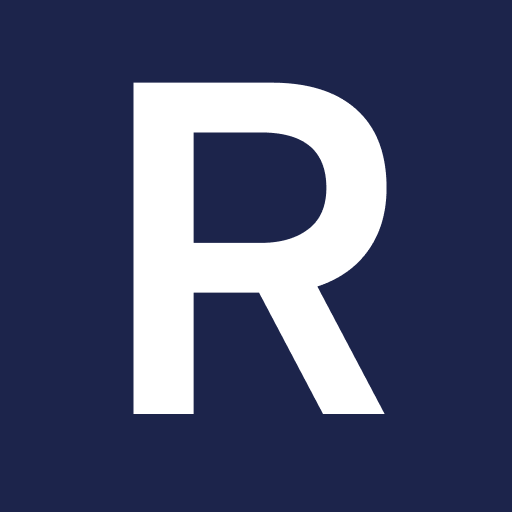
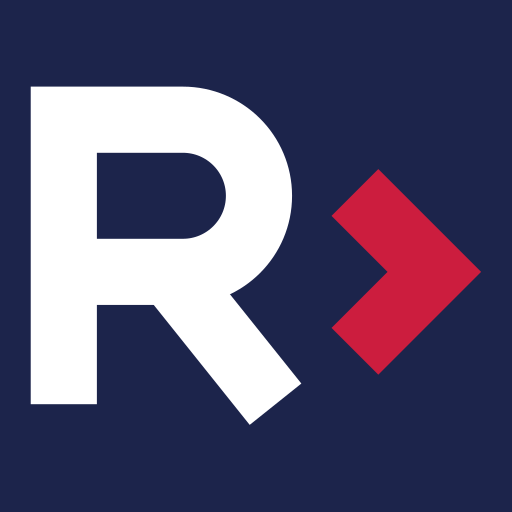
feat(brand): swap in the new Ragen inline logotype
The wordmark keeps its existing outlined paths and its existing palette —
navy #1C244B, red #CC1D3E — and gains the chevron from the new sygnet, set
between the R and the rest of the word: R>agen.ai. The "agen.ai" run is the
original path data shifted right by 116 to open the gap, so the letterforms
are untouched and only the framing grew, 1738 -> 1801 wide.

Ten brand surfaces move together: the app logo in both themes, the docs navbar
in both themes, two favicons and the four Next.js metadata icons. Asset
filenames are unchanged, so nothing referencing them had to move — including
the absolute URL baked into every notification email already delivered.

The exports are path-based and cleanly framed (24 units of padding left, 32
right), so they go in as authored. Two adjustments were still needed:

- The C2PA provenance metadata is stripped: roughly 8KB of base64 wrapped
  around the artwork, most of each file, and meaningless once committed.

- The aspect ratio goes 2.80:1 -> 2.90:1, so the email header's hardcoded
  180x64 becomes 186x64. It is a small change but it has to be made by hand;
  an <Img> with a stale pair squashes the artwork rather than scaling it. The
  <Logo className="h-*"> call sites are height-only and rescale on their own.

favicon.ico and the four app icons are regenerated from the mark alone — white
R and red chevron on the navy field, matching the icons they replace — centred
[…]

diff --git a/apps/web/src/app/components/Logo/__tests__/Logo.test.tsx b/apps/web/src/app/components/Logo/__tests__/Logo.test.tsx
@@ -1,0 +1,111 @@
+import { describe, it, expect, vi, beforeEach } from 'vitest';
+import { render, screen } from '@testing-library/react';
+import userEvent from '@testing-library/user-event';
+
+import { Logo } from '../Logo';
+
+const themeState: { theme?: string; resolvedTheme?: string } = {};
+
+vi.mock('next-themes', () => ({
+  useTheme: () => themeState,
+}));
+
+vi.mock('next/image', () => ({
+  default: ({
+    src,
+    alt,
+    ...props
+  }: {
+    src: string;
+    alt: string;
+    [key: string]: unknown;
+    // eslint-disable-next-line @next/next/no-img-element -- the point of the mock is to drop next/image
+  }) => <img src={src} alt={alt} {...props} />,
+}));
+
+vi.mock('@/i18n/routing', () => ({
+  usePathname: () => '/threads',
+  useRouter: () => ({ refresh: vi.fn() }),
+}));
+
+vi.mock('@/app/lib/utils/logger', () => ({
+  logger: { error: vi.fn(), warn: vi.fn(), info: vi.fn(), debug: vi.fn() },
+}));
+
+const clearVisitorMessagesStats = vi.fn();
+vi.mock('../../../lib/services/api', () => ({
+  clearVisitorMessagesStats: () => clearVisitorMessagesStats(),
+}));
+
+const handleCloseThread = vi.fn();
+vi.mock('@/app/hooks/useCloseThreads', () => ({
+  useCloseThread: () => ({ handleCloseThread }),
+}));
+
+describe('Logo', () => {
+  beforeEach(() => {
+    themeState.theme = 'light';
+    themeState.resolvedTheme = 'light';
+  });
+
+  it('renders the light-background lockup for the light theme', () => {
+    render(<Logo />);
+
+    expect(screen.getByAltText('Logo')).toHaveAttribute(
+      'src',
+      '/assets/ragen-logo-on-light-bg.svg',
+    );
+  });
+
+  it('renders the dark-background lockup for the dark theme', () => {
+    themeState.theme = 'dark';
+    themeState.resolvedTheme = 'dark';
+
+    render(<Logo />);
+
+    expect(screen.getByAltText('Logo')).toHaveAttribute(
+      'src',
+      '/assets/ragen-logo-on-dark-bg.svg',
+    );
+  });
+
+  it('follows the system theme when no theme is set explicitly', () => {
+    themeState.theme = 'system';
+    themeState.resolvedTheme = 'dark';
+
+    render(<Logo />);
+
+    expect(screen.getByAltText('Logo')).toHaveAttribute(
+      'src',
+      '/assets/ragen-logo-on-dark-bg.svg',
+    );
+  });
+
+  it('exposes the brand name to screen readers', () => {
+    render(<Logo />);
+
+    expect(screen.getByText('Ragen AI')).toBeInTheDocument();
+  });
+
+  it('closes the open thread when the logo is clicked', async () => {
+    render(<Logo />);
+
+    await userEvent.click(screen.getByAltText('Logo'));
+
+    expect(handleCloseThread).toHaveBeenCalledWith(true);
+  });
+
+  it('does not close the thread when the link is disabled', async () => {
+    render(<Logo disableLink />);
+
+    await userEvent.click(screen.getByAltText('Logo'));
+
+    expect(handleCloseThread).not.toHaveBeenCalled();
+  });
+
+  it('keeps the caller-supplied sizing class', () => {
+    render(<Logo className="h-12" />);
+
+    expect(screen.getByAltText('Logo')).toHaveClass('h-12');
+  });
+});

diff --git a/apps/web/src/app/emails/components/email-layout.tsx b/apps/web/src/app/emails/components/email-layout.tsx
@@ -27,7 +27,7 @@ export const EmailLayout = ({ preview, children }: Props) => (
       <Body className="bg-[#f6f9fc] font-sans">
         <Container className="mx-auto mb-16 bg-white py-5 pb-12">
           <Section className="px-12">
-            <Img src={LOGO_URL} width={180} height={64} alt="Ragen AI" />
+            <Img src={LOGO_URL} width={186} height={64} alt="Ragen AI" />
             <Hr className="my-5 border-[#e6ebf1]" />
             {children}
             <Hr className="my-5 border-[#e6ebf1]" />

diff --git a/docs/lessons/an-svg-logo-with-live-text-is-not-a-logo-asset.md b/docs/lessons/an-svg-logo-with-live-text-is-not-a-logo-asset.md
@@ -1,0 +1,24 @@
+---
+title: "An SVG logo that keeps its wordmark as live <text> renders in a different font for every viewer — and its viewBox is sized against the fallback"
+modules: ['web', 'docs']
+areas: ['frontend', 'assets']
+topics: ['svg', 'branding', 'webfonts', 'next-image', 'design-handoff']
+---
+
+# An SVG logo that keeps its wordmark as live `<text>` renders in a different font for every viewer — and its viewBox is sized against the fallback
+
+> Caught during a brand handoff and fixed before merge. That particular export was
+> later superseded by a path-based one, so no file in the tree shows the problem —
+> the rule is here because the next handoff can arrive the same way.
+
+**Context**: a brand refresh arrives as a folder of SVG exports — a mark, a lockup, light and dark variants. They open correctly in a browser and in a design tool, so they look ready to drop into `apps/web/public/assets/`. One such lockup drew its wordmark as `<text font-family="Barlow Condensed, Barlow, sans-serif" font-weight="600" font-size="54">`.
+
+**Problem**: an SVG referenced through `<img src>` — which is what `next/image` and the Docusaurus navbar logo both produce — is rendered as an *isolated document*. It cannot reach the host page's CSS, its `@font-face` rules, or any webfont the app loads. It resolves `font-family` only against fonts installed on the viewer's machine. Barlow Condensed is not a system font anywhere, so every viewer would have got some other face, at some other width, and the logo's proportions would have changed per machine. Rendered at the same height, the un-outlined export came out 540px wide against an outlined version's 422px — a 28% difference driven purely by which fonts the viewer happens to have.
+
+The second half is subtler and easy to ship without noticing. That export's `viewBox` was `0 0 360 64`, but with the *intended* font the artwork's ink ended at x=270. The 360 had been measured against the fallback the design machine actually rendered (plain Barlow, ending at x=333) — so the file carried 90 units of dead space on the right against 11 on the left. A logo sized by height in a flex header then sits visibly left of where it should, with a gap nobody can find in the CSS, because the gap is inside the asset.
+
+A related trap in the same files: the exports carried ~8KB of base64 C2PA provenance metadata around ~500 bytes of artwork — 94% of each file — which is meaningless once the asset is committed and served.
+
+**Rule**: a logo shipped as a static asset must not depend on a font. Check every incoming SVG for `<text>` before anything else (`grep -c '<text\|font-family' *.svg`); if it has one, outline it to paths before committing (`fontTools` + `uharfbuzz`: shape the string with kerning on, then draw each glyph through a `TransformPen` scaled by `fontSize / unitsPerEm` with y negated). Then check the framing against the *outlined* ink rather than trusting the exported `viewBox`, and measure that ink by rasterizing and reading the alpha bbox rather than deriving it from the path data — a `stroke-linejoin="miter"` tip reaches well past the coordinates in the `d` attribute (x=79.1 where `72 + stroke-width/2` predicted 77, which clipped the icon until it was measured). Strip C2PA metadata while you are there. Finally, treat a logo's aspect ratio as a layout input: it silently rescales every `<Logo className="h-*">` site, and breaks any hardcoded `width`/`height` pair, such as the one in the email header.
+
+**Applies to**: any brand or icon asset added under `apps/web/public/assets/`, `apps/docs/static/img/`, or the Next.js metadata icons in `apps/web/src/app/`; and any design handoff of SVGs that contain a `<text>` element.

diff --git a/docs/lessons.md b/docs/lessons.md
@@ -53,6 +53,10 @@ After a nontrivial correction or a non-obvious gotcha (see `AGENTS.md`'s "Post-T
 - [AWS_ACCESS_KEY_ID/AWS_SECRET_ACCESS_KEY in local .env.local are Scaleway S3 credentials, not AWS Bedrock ones](lessons/aws-prefixed-env-vars-are-scaleway-s3-not-bedrock.md) — area:integration; module:web,worker,infra; topic:env-vars,aws,scaleway,bedrock,litellm,reranker,storage. A flat 403 "security token invalid" (not a permissions error) means the credentials are for a different service, not expired.
 - [A SignatureDoesNotMatch that survives every endpoint/bucket/region combination is the credential pair, not a config typo](lessons/s3-signature-mismatch-across-every-endpoint-is-the-key-not-config.md) — area:integration; module:storage,worker; topic:s3,scaleway,credentials,signature-does-not-match,local-development. Vary endpoint/bucket/region independently in an isolated script before auditing app config — the same error across every combination means the key itself, not a typo.
 
+### frontend
+
+- [An SVG logo that keeps its wordmark as live `<text>` renders in a different font for every viewer](lessons/an-svg-logo-with-live-text-is-not-a-logo-asset.md) — area:frontend,assets; module:web,docs; topic:svg,branding,webfonts,next-image,design-handoff. An `<img>`-referenced SVG cannot reach the page's webfonts, and the export's viewBox had been sized against the fallback face — 90 units of dead space on one side, 11 on the other. Caught before merge; grep incoming SVGs for `<text>` first.
+
 ### testing
 
 - [A Stryker mutate entry that matches nothing, or whose tests are out of the runner config, reports success](lessons/stryker-mutate-glob-and-runner-scope-must-agree.md) — area:testing,ci; module:ci; topic:mutation-testing,stryker,vitest,config-drift
